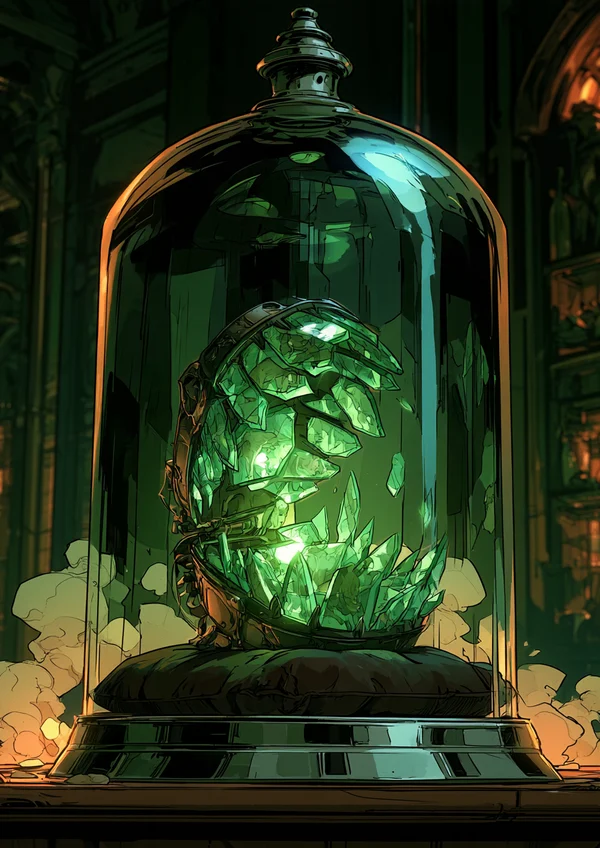
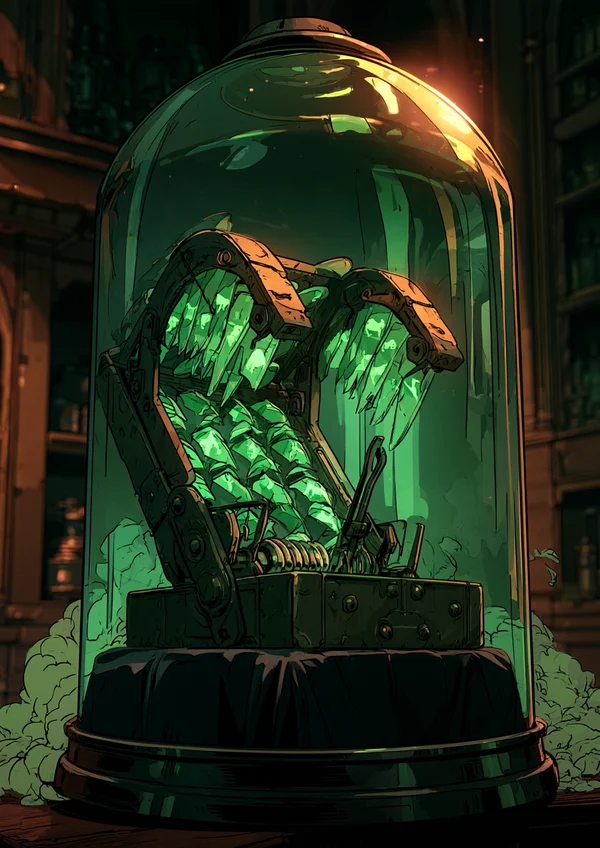
Mâchoire-miroir : nouvelle illustration (le piège aux éclats de miroir)
Claude-Session: https://claude.ai/code/session_01YVrYiXS4E2e8LtkAXEQrUA

diff --git a/src/ui/art.ts b/src/ui/art.ts
@@ -10,7 +10,7 @@ const base = new URL('art/', document.baseURI).href;
 /** à changer quand les portraits sont repeints sous le même nom : le navigateur recharge alors les nouveaux au lieu de garder les anciens en cache */
 const VERSION_PORTRAITS = 2;
 /** idem pour les illustrations des cartes */
-const VERSION_CARTES = 14;
+const VERSION_CARTES = 15;
 const PORTEURS_ILLUSTRES = new Set(['ilka', 'doran', 'vela', 'sasha', 'nuit', 'aurel', 'coursier', 'docker', 'guetteur', 'kessa', 'liane', 'joss']);
 
 /** Modules illustrés : id du Module dans donnees.ts → fichier */
